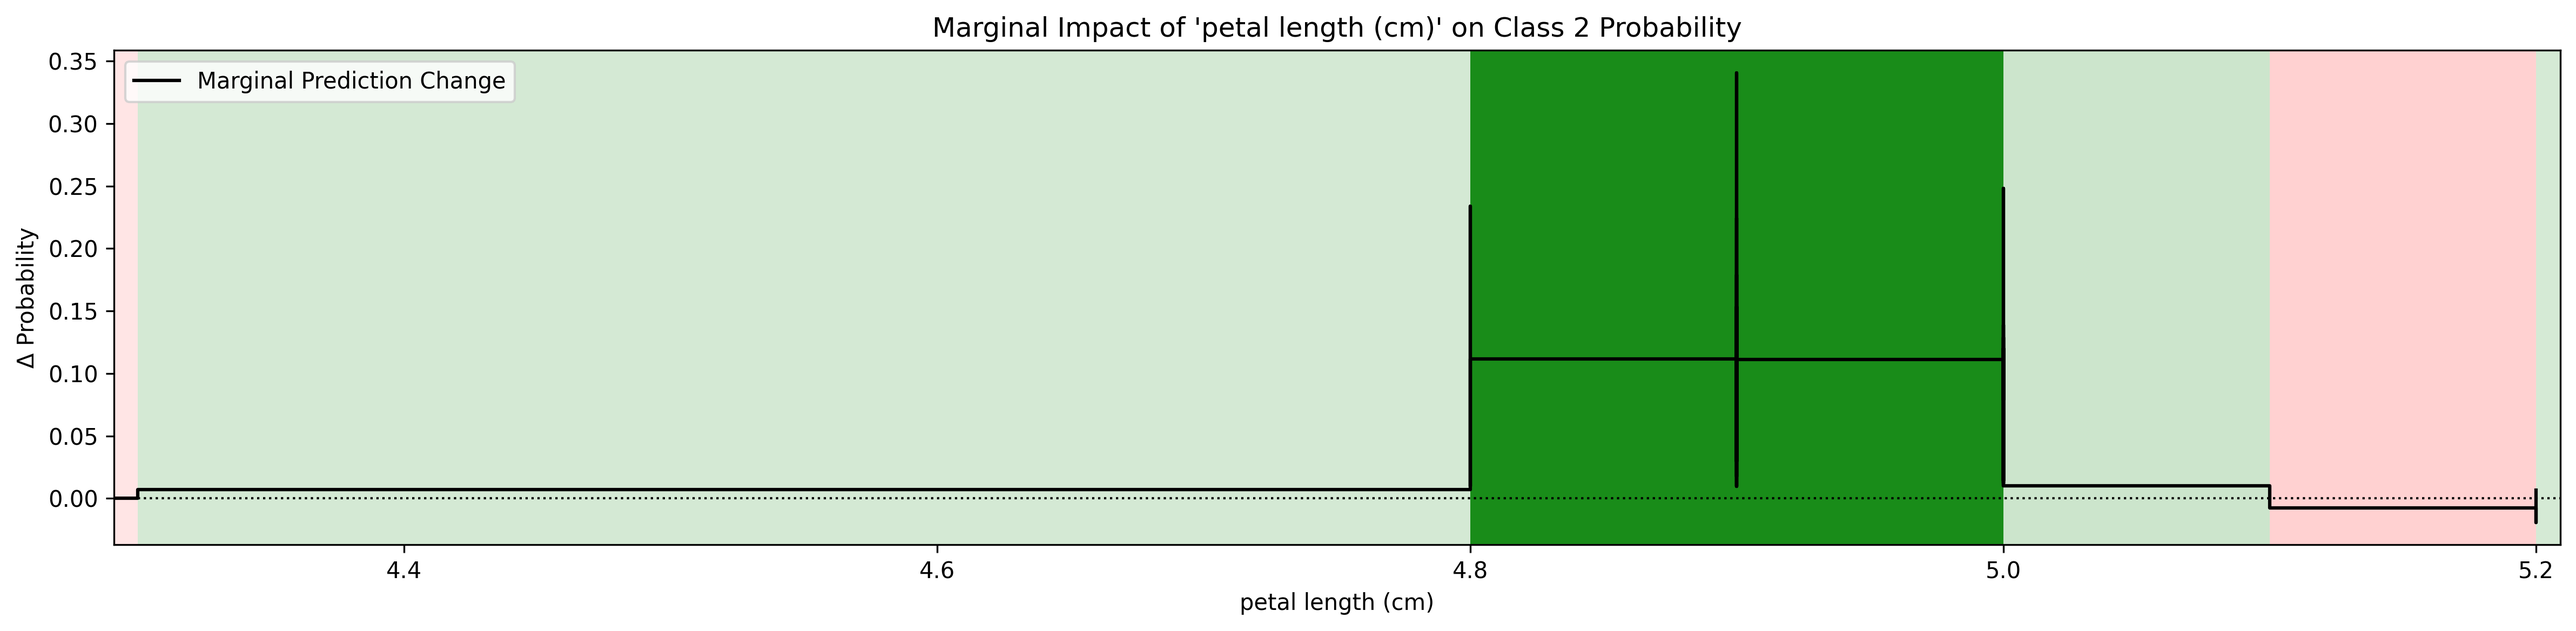
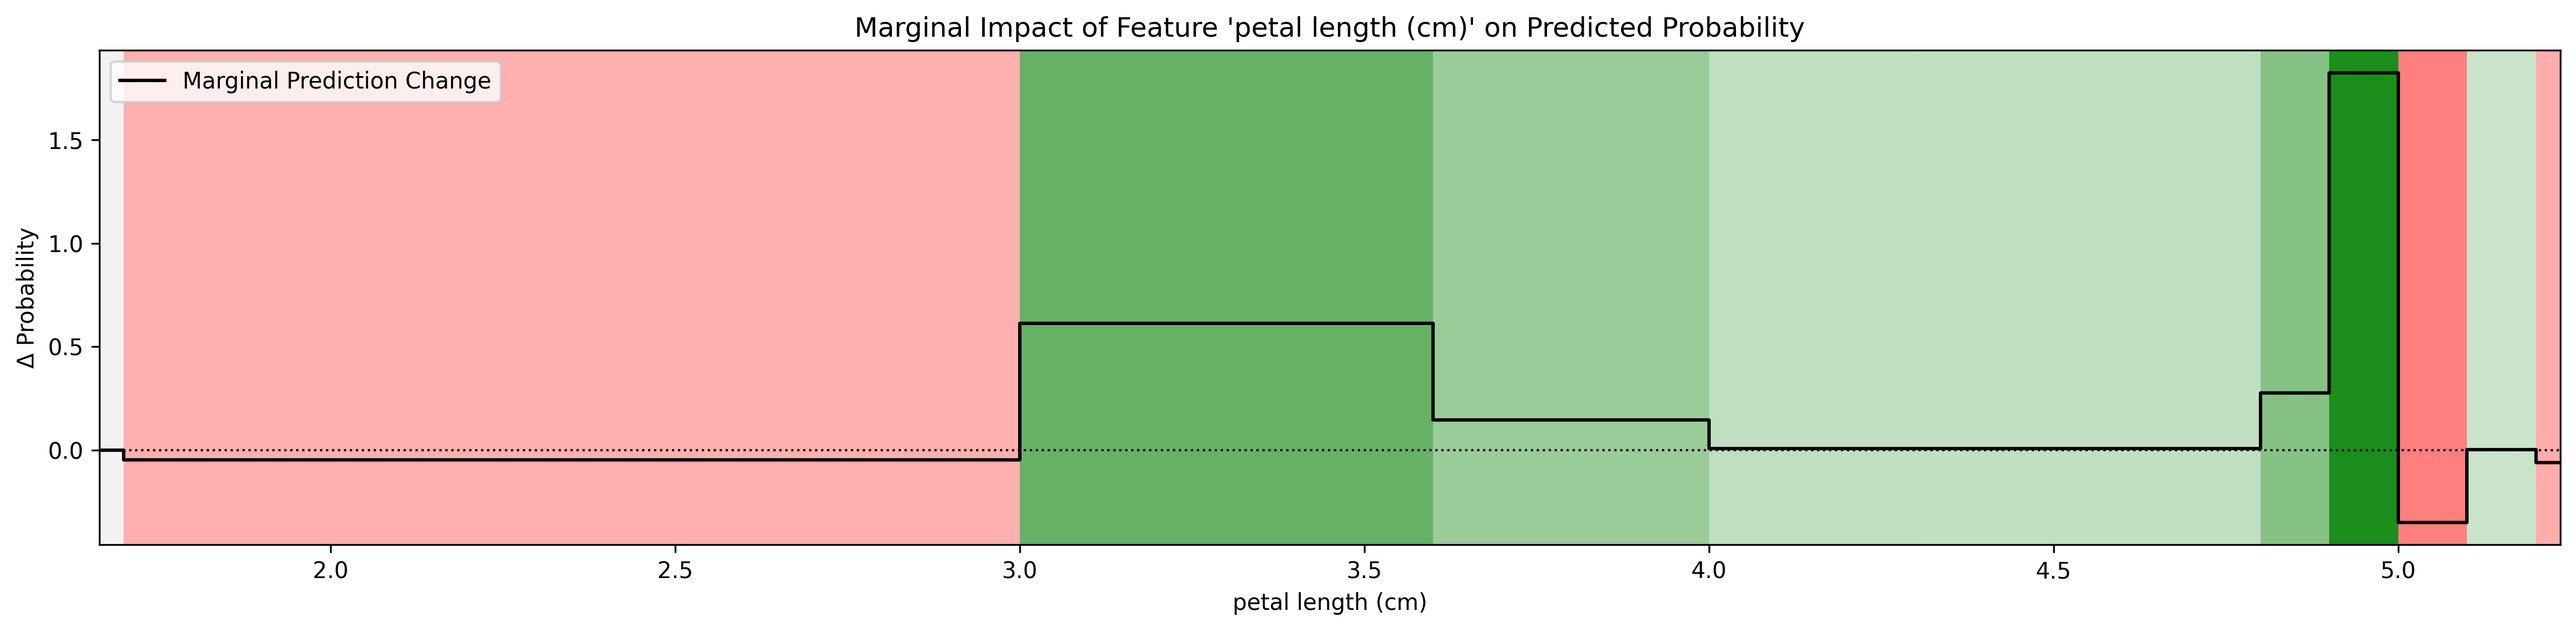
Marginal Impact plots

diff --git a/xgboost_interp/core/model_analyzer.py b/xgboost_interp/core/model_analyzer.py
@@ -210,8 +210,12 @@ class ModelAnalyzer:
         fig, ax = plt.subplots(figsize=(14, 5))
         
         # ICE curves (gray, transparent)
-        for ice in ice_curves:
-            ax.plot(grid_values, ice, color='gray', alpha=0.2, linewidth=1)
+        for i, ice in enumerate(ice_curves):
+            # Only add label to first ICE curve for legend
+            if i == 0:
+                ax.plot(grid_values, ice, color='gray', alpha=0.2, linewidth=1, label="ICE curves")
+            else:
+                ax.plot(grid_values, ice, color='gray', alpha=0.2, linewidth=1)
         
         # Average PDP (red dotted line)
         ax.plot(grid_values, averaged, color='red', linestyle='--', 

diff --git a/README.md b/README.md
@@ -162,10 +162,10 @@ Combined view of feature importance across weight, gain, and cover metrics.
 *California Housing dataset - shows MedInc (median income) as the most important feature*
 
 #### 4. Marginal Impact
-Feature-specific prediction changes across all splits in the model.
+Feature-specific prediction changes across all splits in the model. Shows how the model's prediction changes in different ranges of a feature based on the tree structure alone (no data required). The step function displays the marginal prediction change at each threshold, with color intensity indicating the magnitude of impact.
 
 ![Marginal Impact](docs/images/marginal_impact_petal_length.png)
-*Iris dataset - detailed view of how petal length splits affect predictions*
+*Iris dataset - marginal impact of petal length on class 2 probability. Strong positive impact in the 3-4.5cm range (darker green) indicates higher probability for class 2 (virginica). Negative impact below 3cm (red) suggests lower probability. The step function shows exact prediction changes at each split threshold across all 150 trees.*
 
 #### 5. Partial Dependence Plot (PDP)
 Shows how predictions change as a feature varies, with ICE curves for individual samples.
